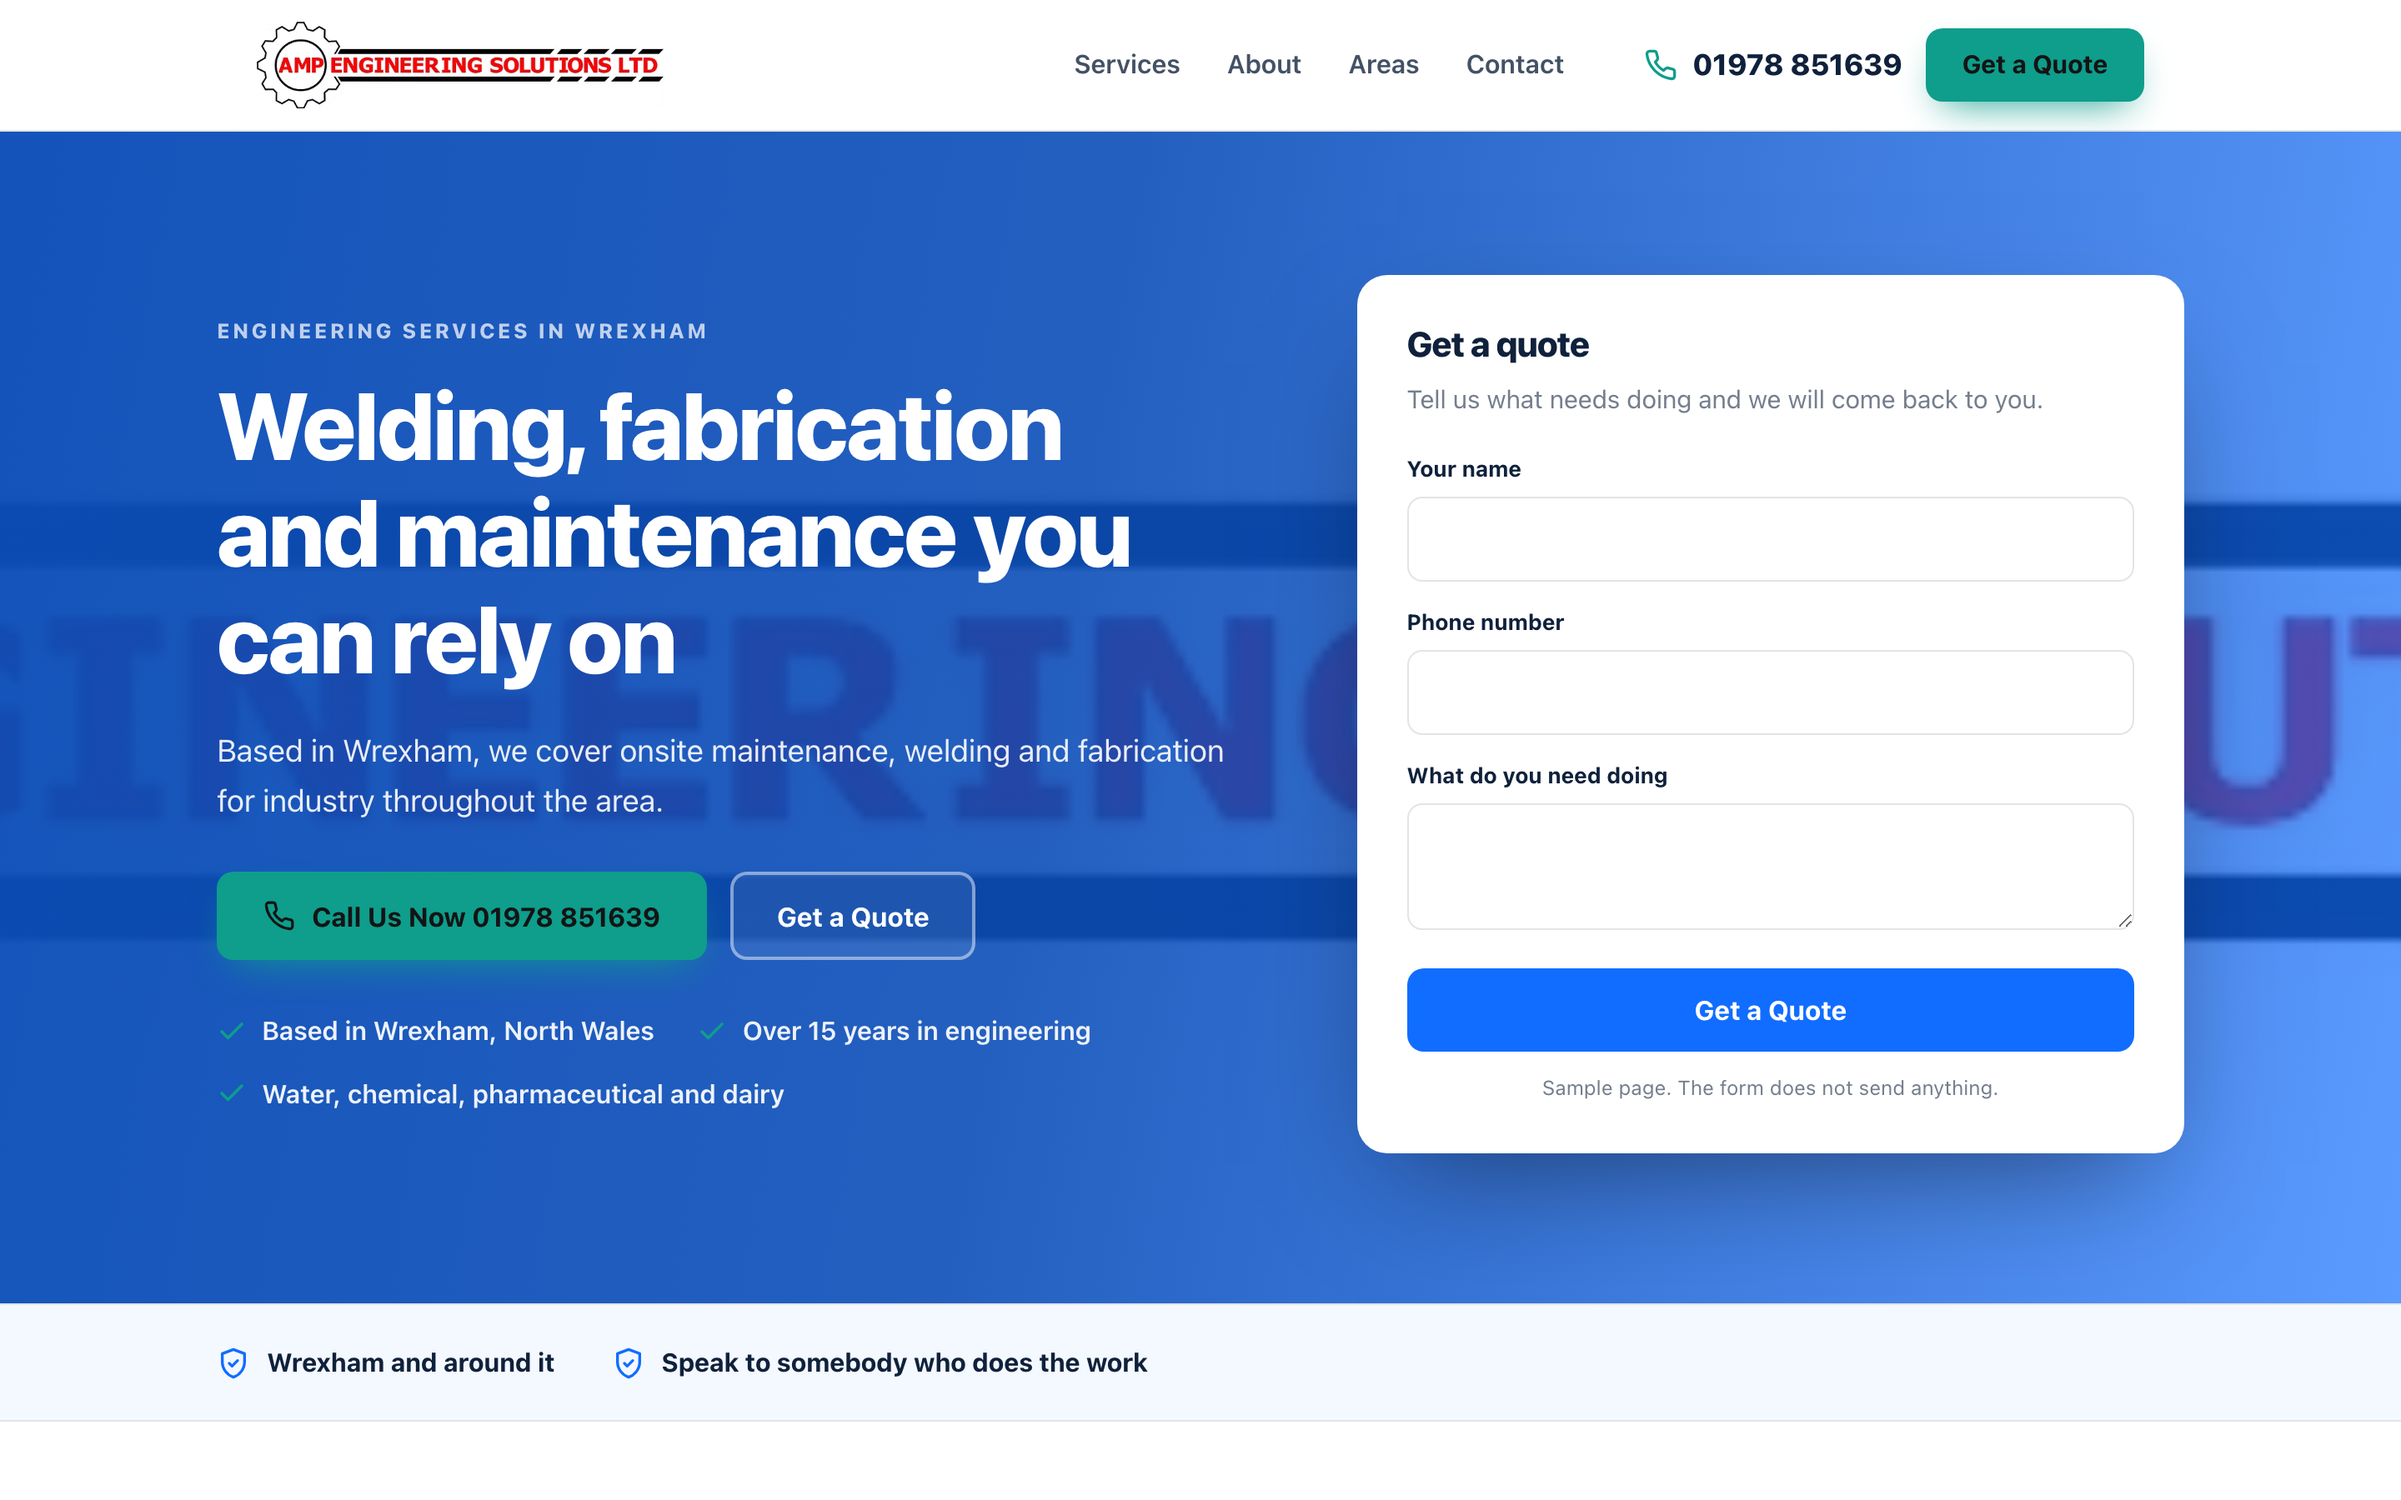
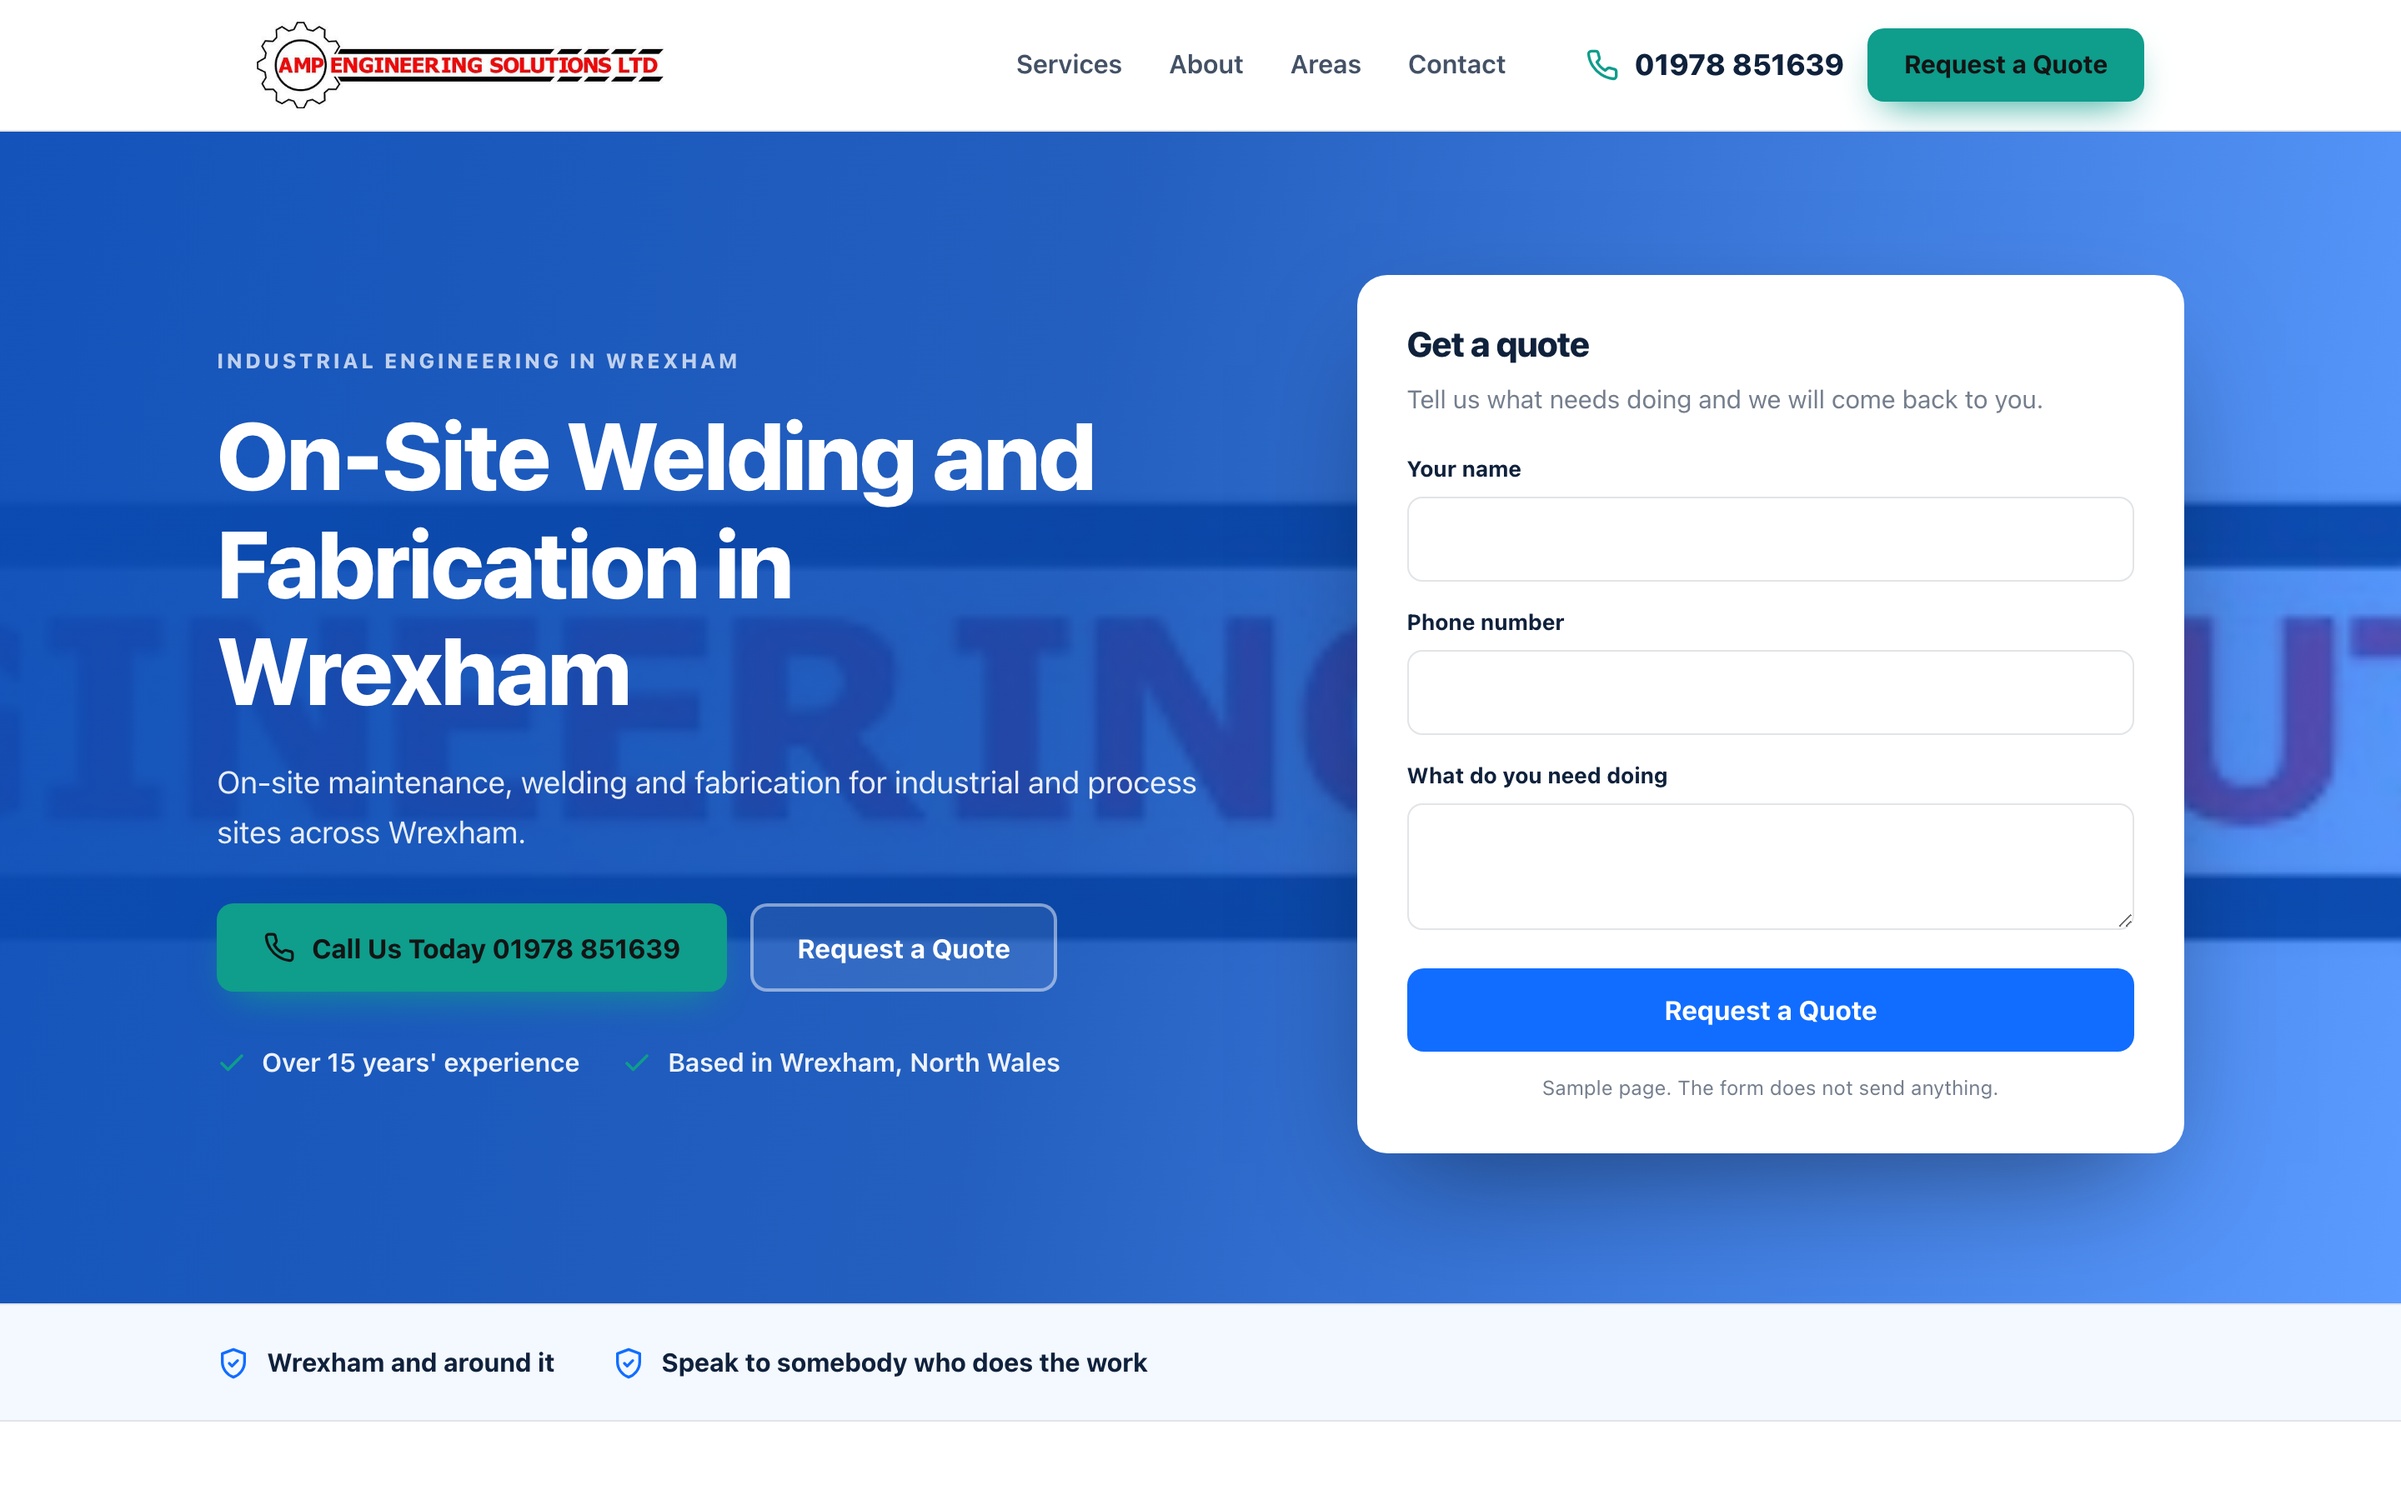
Sample homepage for Amp Engineering Solutions Ltd

diff --git a/docs/f0d1cdf40c/index.html b/docs/f0d1cdf40c/index.html
@@ -5,13 +5,13 @@
 <meta name="viewport" content="width=device-width, initial-scale=1">
 <meta name="robots" content="noindex,nofollow">
 <title>Amp Engineering Solutions Ltd sample homepage</title>
-<meta name="description" content="Based in Wrexham, we cover onsite maintenance, welding and fabrication for industry throughout the area.">
+<meta name="description" content="On-site maintenance, welding and fabrication for industrial and process sites across Wrexham.">
 <link rel="canonical" href="https://markygff.github.io/aso-mockups/f0d1cdf40c/">
 <meta property="og:type" content="website">
 <meta property="og:title" content="Amp Engineering Solutions Ltd sample homepage">
-<meta property="og:description" content="Based in Wrexham, we cover onsite maintenance, welding and fabrication for industry throughout the area.">
+<meta property="og:description" content="On-site maintenance, welding and fabrication for industrial and process sites across Wrexham.">
 <meta property="og:url" content="https://markygff.github.io/aso-mockups/f0d1cdf40c/">
-<meta property="og:image" content="https://static.wixstatic.com/media/2bf107_f700cade70018ac48ec0410944cf52f6.jpg/v1/fill/w_680,h_145,al_c,q_80,usm_0.66_1.00_0.01,enc_avif,quality_auto/2bf107_f700cade70018ac48ec0410944cf52f6.jpg"><style>
+<meta property="og:image" content="img/p00.jpg"><style>
 :root{
   --primary:#116dff;
   --primary-dark:#0c4eb8;
@@ -52,7 +52,8 @@ p{margin:0}
 .nav{display:flex;gap:28px;margin-left:auto;font-weight:600;font-size:.97rem;color:var(--ink)}
 .nav span{opacity:.78}
 .header-cta{display:flex;align-items:center;gap:14px;margin-left:28px}
-.tel{display:flex;align-items:center;gap:9px;font-weight:800;font-size:1.1rem;color:var(--ink)}
+.tel{display:flex;align-items:center;gap:9px;font-weight:800;font-size:1.1rem;
+     color:var(--ink);text-decoration:none}
 .tel svg{width:20px;height:20px;color:var(--accent)}
 .header-cta .btn{padding:12px 20px;font-size:.95rem}
 
@@ -119,30 +120,30 @@ p{margin:0}
 <header class="header">
   <div class="wrap header-in">
     <div class="brand">
-<img src="https://static.wixstatic.com/media/2bf107_f700cade70018ac48ec0410944cf52f6.jpg/v1/fill/w_680,h_145,al_c,q_80,usm_0.66_1.00_0.01,enc_avif,quality_auto/2bf107_f700cade70018ac48ec0410944cf52f6.jpg" alt="Amp Engineering Solutions Ltd logo">    </div>
+<img src="img/logo.jpg" alt="Amp Engineering Solutions Ltd logo">    </div>
     <nav class="nav">
       <span>Services</span><span>About</span><span>Areas</span><span>Contact</span>
     </nav>
     <div class="header-cta">
-      <span class="tel"><svg viewBox="0 0 24 24" fill="none" stroke="currentColor" stroke-width="2" stroke-linecap="round" stroke-linejoin="round" aria-hidden="true"><path d="M22 16.9v3a2 2 0 0 1-2.2 2 19.8 19.8 0 0 1-8.6-3.1 19.5 19.5 0 0 1-6-6 19.8 19.8 0 0 1-3.1-8.7A2 2 0 0 1 4.1 2h3a2 2 0 0 1 2 1.7c.1 1 .4 1.9.7 2.8a2 2 0 0 1-.5 2.1L8.1 9.9a16 16 0 0 0 6 6l1.3-1.2a2 2 0 0 1 2.1-.5c.9.3 1.8.6 2.8.7a2 2 0 0 1 1.7 2z"/></svg><span>01978 851639</span></span>
-      <span class="btn btn-accent">Get a Quote</span>
+      <a class="tel" href="tel:+441978851639"><svg viewBox="0 0 24 24" fill="none" stroke="currentColor" stroke-width="2" stroke-linecap="round" stroke-linejoin="round" aria-hidden="true"><path d="M22 16.9v3a2 2 0 0 1-2.2 2 19.8 19.8 0 0 1-8.6-3.1 19.5 19.5 0 0 1-6-6 19.8 19.8 0 0 1-3.1-8.7A2 2 0 0 1 4.1 2h3a2 2 0 0 1 2 1.7c.1 1 .4 1.9.7 2.8a2 2 0 0 1-.5 2.1L8.1 9.9a16 16 0 0 0 6 6l1.3-1.2a2 2 0 0 1 2.1-.5c.9.3 1.8.6 2.8.7a2 2 0 0 1 1.7 2z"/></svg><span>01978 851639</span></a>
+      <span class="btn btn-accent">Request a Quote</span>
     </div>
   </div>
 </header>
 
 <section class="hero">
-  <div class="hero-bg"><img src="https://static.wixstatic.com/media/2bf107_f700cade70018ac48ec0410944cf52f6.jpg/v1/fill/w_680,h_145,al_c,q_80,usm_0.66_1.00_0.01,enc_avif,quality_auto/2bf107_f700cade70018ac48ec0410944cf52f6.jpg" alt="AMP Engineering Solutions Ltd" width="1600" height="900"></div>
+  <div class="hero-bg"><img src="img/p00.jpg" alt="AMP Engineering Solutions Ltd" width="1600" height="900"></div>
   <div class="wrap hero-in">
     <div>
-      <p class="eyebrow">Engineering services in Wrexham</p>
-      <h1>Welding, fabrication and maintenance you can rely on</h1>
-      <p class="hero-sub">Based in Wrexham, we cover onsite maintenance, welding and fabrication for industry throughout the area.</p>
+      <p class="eyebrow">Industrial Engineering in Wrexham</p>
+      <h1>On-Site Welding and Fabrication in Wrexham</h1>
+      <p class="hero-sub">On-site maintenance, welding and fabrication for industrial and process sites across Wrexham.</p>
       <div class="hero-actions">
-        <span class="btn btn-accent"><svg viewBox="0 0 24 24" fill="none" stroke="currentColor" stroke-width="2" stroke-linecap="round" stroke-linejoin="round" aria-hidden="true"><path d="M22 16.9v3a2 2 0 0 1-2.2 2 19.8 19.8 0 0 1-8.6-3.1 19.5 19.5 0 0 1-6-6 19.8 19.8 0 0 1-3.1-8.7A2 2 0 0 1 4.1 2h3a2 2 0 0 1 2 1.7c.1 1 .4 1.9.7 2.8a2 2 0 0 1-.5 2.1L8.1 9.9a16 16 0 0 0 6 6l1.3-1.2a2 2 0 0 1 2.1-.5c.9.3 1.8.6 2.8.7a2 2 0 0 1 1.7 2z"/></svg>Call Us Now 01978 851639</span>
-        <span class="btn btn-ghost">Get a Quote</span>
+        <span class="btn btn-accent"><svg viewBox="0 0 24 24" fill="none" stroke="currentColor" stroke-width="2" stroke-linecap="round" stroke-linejoin="round" aria-hidden="true"><path d="M22 16.9v3a2 2 0 0 1-2.2 2 19.8 19.8 0 0 1-8.6-3.1 19.5 19.5 0 0 1-6-6 19.8 19.8 0 0 1-3.1-8.7A2 2 0 0 1 4.1 2h3a2 2 0 0 1 2 1.7c.1 1 .4 1.9.7 2.8a2 2 0 0 1-.5 2.1L8.1 9.9a16 16 0 0 0 6 6l1.3-1.2a2 2 0 0 1 2.1-.5c.9.3 1.8.6 2.8.7a2 2 0 0 1 1.7 2z"/></svg>Call Us Today 01978 851639</span>
+        <span class="btn btn-ghost">Request a Quote</span>
       </div>
       <ul class="hero-bullets">
-<li><svg viewBox="0 0 24 24" fill="none" stroke="currentColor" stroke-width="2.4" stroke-linecap="round" stroke-linejoin="round" aria-hidden="true"><path d="M20 6 9 17l-5-5"/></svg><span>Based in Wrexham, North Wales</span></li><li><svg viewBox="0 0 24 24" fill="none" stroke="currentColor" stroke-width="2.4" stroke-linecap="round" stroke-linejoin="round" aria-hidden="true"><path d="M20 6 9 17l-5-5"/></svg><span>Over 15 years in engineering</span></li><li><svg viewBox="0 0 24 24" fill="none" stroke="currentColor" stroke-width="2.4" stroke-linecap="round" stroke-linejoin="round" aria-hidden="true"><path d="M20 6 9 17l-5-5"/></svg><span>Water, chemical, pharmaceutical and dairy</span></li>      </ul>
+<li><svg viewBox="0 0 24 24" fill="none" stroke="currentColor" stroke-width="2.4" stroke-linecap="round" stroke-linejoin="round" aria-hidden="true"><path d="M20 6 9 17l-5-5"/></svg><span>Over 15 years&#39; experience</span></li><li><svg viewBox="0 0 24 24" fill="none" stroke="currentColor" stroke-width="2.4" stroke-linecap="round" stroke-linejoin="round" aria-hidden="true"><path d="M20 6 9 17l-5-5"/></svg><span>Based in Wrexham, North Wales</span></li>      </ul>
     </div>
     <div class="quote-card">
       <h3>Get a quote</h3>
@@ -150,7 +151,7 @@ p{margin:0}
       <div class="field"><label>Your name</label><input type="text" disabled></div>
       <div class="field"><label>Phone number</label><input type="tel" disabled></div>
       <div class="field"><label>What do you need doing</label><textarea disabled></textarea></div>
-      <span class="btn btn-primary">Get a Quote</span>
+      <span class="btn btn-primary">Request a Quote</span>
       <p class="sample-note">Sample page. The form does not send anything.</p>
     </div>
   </div>
@@ -168,23 +169,23 @@ p{margin:0}
     <div class="services-head">
       <p class="eyebrow">What we do</p>
       <h2>Amp Engineering Solutions Ltd, Wrexham</h2>
-      <p>Based in Wrexham, we cover onsite maintenance, welding and fabrication for industry throughout the area.</p>
+      <p>On-site maintenance, welding and fabrication for industrial and process sites across Wrexham.</p>
     </div>
     <div class="grid">
       <article class="card">
         <div class="icon"><svg viewBox="0 0 24 24" fill="none" stroke="currentColor" stroke-width="2" stroke-linecap="round" stroke-linejoin="round" aria-hidden="true"><path d="M14.7 6.3a4 4 0 0 0 5.3 5.3l-8 8a3 3 0 0 1-4.2-4.2z"/><path d="m14.7 6.3 3-3"/></svg></div>
-        <h3>Onsite Maintenance</h3>
-        <p>We keep plant and machinery running with maintenance work carried out on site.</p>
+        <h3>ONSITE MAINTENANCE</h3>
+        <p>We come to your site to carry out maintenance work.</p>
       </article>
       <article class="card">
         <div class="icon"><svg viewBox="0 0 24 24" fill="none" stroke="currentColor" stroke-width="2" stroke-linecap="round" stroke-linejoin="round" aria-hidden="true"><path d="M13 2 4 14h7l-1 8 9-12h-7z"/></svg></div>
-        <h3>Welding</h3>
-        <p>Skilled welding work, carried out on site or in the workshop.</p>
+        <h3>WELDING</h3>
+        <p>Skilled welding for industrial and process equipment.</p>
       </article>
       <article class="card">
         <div class="icon"><svg viewBox="0 0 24 24" fill="none" stroke="currentColor" stroke-width="2" stroke-linecap="round" stroke-linejoin="round" aria-hidden="true"><path d="M3 10.5 12 3l9 7.5"/><path d="M5 9.5V21h14V9.5"/><path d="M10 21v-6h4v6"/></svg></div>
-        <h3>Fabrication</h3>
-        <p>We fabricate steelwork and pipework to your specification.</p>
+        <h3>FABRICATION</h3>
+        <p>Fabrication from initial design through to installation.</p>
       </article>
     </div>
   </div>
